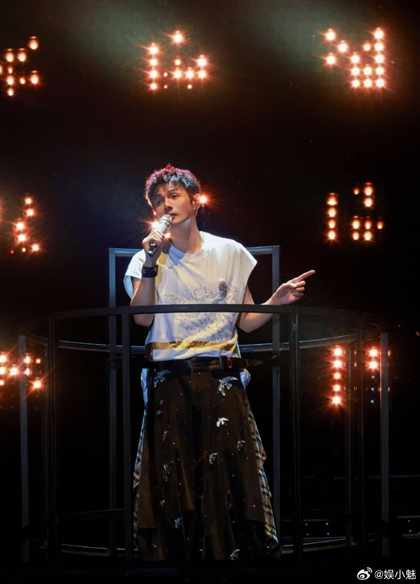
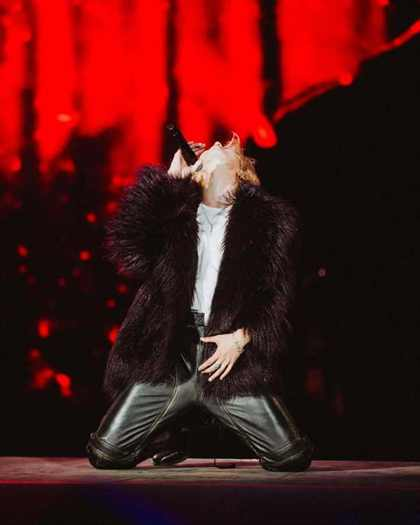
fix deadman photo (real KUN HITC LA), remove guest link, sticky close

diff --git a/index.html b/index.html
@@ -461,7 +461,7 @@ tr:nth-child(even){background:#F8FAFF;}
 .modal.is-open{display:block;}
 body.modal-open{overflow:hidden;}
 .close{
-	position:absolute;
+	position:fixed;
 	top:16px;
 	right:18px;
 	width:44px;
@@ -473,7 +473,8 @@ body.modal-open{overflow:hidden;}
 	font-size:26px;
 	line-height:1;
 	cursor:pointer;
-	z-index:10;
+	z-index:1002;
+	box-shadow:0 8px 22px rgba(11,24,52,.32);
 	transition:.2s;
 }
 .close:hover{background:#2F5CD4;}
@@ -1558,7 +1559,6 @@ body{background:#F3F7FF;color:#1B2A45;}
 		</div>
 
 		<p class="ag-foot">登录之后可以看全部的图片和舞台影像，也能在社区说话、投稿。<br>第一次来先注册，6 位验证码会发到你填的邮箱。</p>
-		<p class="ag-foot" style="margin-top:8px;"><a href="#" id="agGuest" style="color:#2F5CD4;font-weight:600;text-decoration:none;">先随便逛逛，不登录 →</a></p>
 	</div>
 </div>
 <script>
@@ -1569,10 +1569,8 @@ body{background:#F3F7FF;color:#1B2A45;}
 	if(/[?&]open=1/.test(location.search)){ g.parentNode.removeChild(g); return; }
 	var sess=null;
 	try{ sess=JSON.parse(localStorage.getItem('kun_site_user')||'null'); }catch(e){}
-	if(sess&&(sess.mail||sess.guest)){ g.parentNode.removeChild(g); return; }
+	if(sess&&sess.mail){ g.parentNode.removeChild(g); return; }
 	document.documentElement.style.overflow='hidden';
-	var guestBtn=document.getElementById('agGuest');
-	if(guestBtn){ guestBtn.onclick=function(e){ e.preventDefault(); try{ localStorage.setItem('kun_site_user',JSON.stringify({mail:'guest@local',name:'游客',avatar:'',guest:true})); }catch(err){} location.reload(); }; }
 
 	var U='data/users.json';
 	var CFG=window.AYLIO_MAIL||{};
@@ -3002,11 +3000,11 @@ var NEED_LOGIN = !/[?&]open=1/.test(location.search);   /* 加 ?open=1 就是免
 				</div>
 			</div>
 			<div class="album-card">
-				<img decoding="async" class="album-cover" src="images/t/deadman-la.jpg" alt="洛杉矶 HITC 音乐节舞台，白色短袖与亮片长裤，站在栏杆后唱歌" loading="lazy" style="object-position:center 16%;">
+				<img decoding="async" class="album-cover" src="images/t/deadman-la.jpg" alt="洛杉矶 HITC 音乐节舞台，白T恤配黑色皮草大衣，仰头唱歌" loading="lazy" style="object-position:center top;">
 				<div class="album-info">
 					<div class="album-date">2025.06.02</div>
 					<h5>《Deadman》</h5>
-					<p>洛杉矶 HITC 音乐节，88rising 十周年场，《Deadman》第一次在现场唱；白衣站在栏杆后，台下是整片灯海。</p>
+					<p>洛杉矶 HITC 音乐节，88rising 十周年场，《Deadman》第一次在现场唱；白 T 恤外罩一件黑色皮草大衣，仰头唱到副歌，身后是整片红色的光。</p>
 				</div>
 			</div>
 			<div class="album-card">
